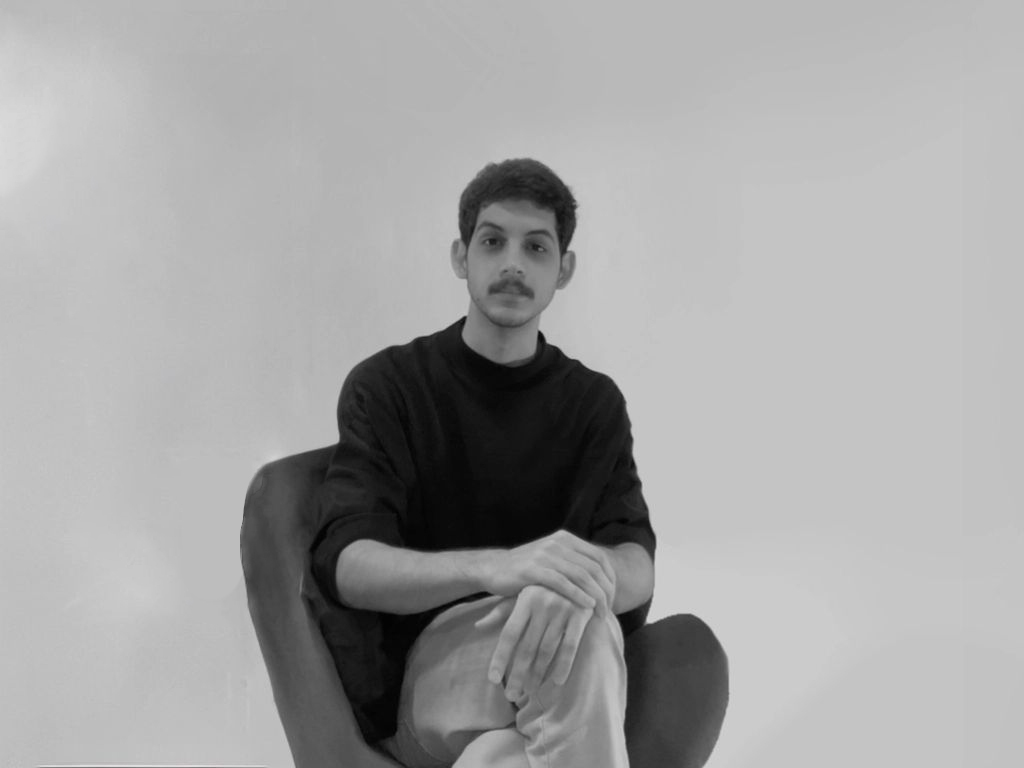
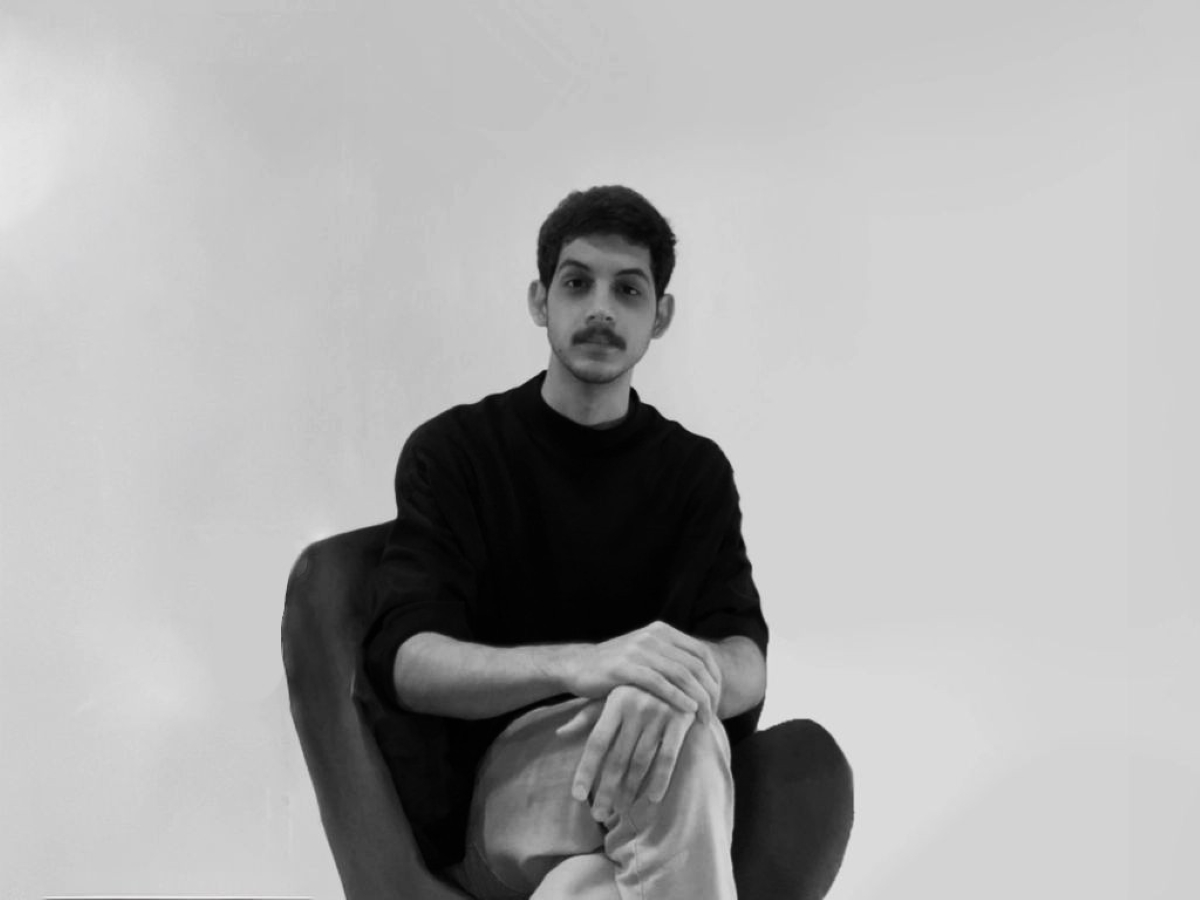
teste

diff --git a/estilos/media-query.css b/estilos/media-query.css
@@ -2,14 +2,12 @@
 
 @media screen and (min-width: 768px) {
    body, header {
-    max-width: 820px;
-    box-shadow: 10px 10px 10px 10px rgba(0, 0, 0, 0.123);
     margin: auto;
    }
     div.fotoarthur {
     background-image: url(../Foto-arthur/arthur-portrait.jpg);
     background-size: contain;
-    width: 800px
+    width: 800px;
    }
 
    section.efeito {
@@ -37,7 +35,8 @@ section.fundocadeira > article {
     max-width: 400px;
 }
 
-@media screen and (min-width: 992px) {
+@media screen and (min-width: 992px) and (max-width: 1200px) {
+
     section.efeito {
         animation-duration: 0s;
         margin-right: 50px;
@@ -50,10 +49,91 @@ section.fundocadeira > article {
 }
 
 @media screen and (min-width: 1200px) {
+    header {
+        top: 0;
+        width: 100vw;
+        position: fixed;
+    }
+
+    header.rolagem {
+        background-color: #858666;
+    }
+
+    header.rolagem nav a {
+        color: white;
+    }
+
+    header.rolagem nav a:hover {
+        background-color: black;
+    }
+
+
     section.efeito {
-        display: block;
+        margin-top: 450px;
         width: 300px;
         height: 350px;
 
+}
+
+body, html {
+    width: 100vw;
+    margin: auto;
+    background-image: url(../Foto-arthur/arthur2-landscape.jpg);
+    background-size: contain;
+    background-repeat: no-repeat;
+}
+
+div.fotoarthur {
+    background-image: url(../Foto-arthur/arthur2-landscape.jpg);
+    justify-content: space-between;
+    background-size: cover;
+    width: 100vw;
+    height: 100vh;
+
+
+}
+
+section.fundoarthur {
+    box-shadow: none;
+}
+
+div.logo {
+    display: flex;
+    background-image: url(../Logos/nome-logo-nocrp.png);
+    width: 200px;
+    height: 85px;
+    margin: 10px;
+    margin-bottom: 20px;
+    background-size: cover;
+    background-repeat: no-repeat;
+    align-items: flex-end;
+    justify-content: center;
+}
+
+section.apresentacao {
+    margin-top: 230px;
+    color: white;
+    padding: 10px;
+    background-color: #545441;;
+    margin-left: 70px;
+    width: 300px;
+    height: 370px;
+    border-radius: 15px;
+}
+
+div.logocadeira {
+    background-color: #545441;
+    background-image: url(../Logos/icone.ico);
+    background-size: cover;
+    margin: 50px;
+    margin-top: 300px;
+    width: 100px;
+    height: 100px;
+    border-radius: 50%;
+}
+
+section.fundocadeira {
+    margin-top: 350px;
+    background-attachment: fixed;
 }
 }

diff --git a/index.html b/index.html
@@ -9,9 +9,10 @@
     <title>Psicólogo Arthur de Luna</title>
 </head>
 <body>
-    <header>
-        <img src="Logos/novanome-logo-nocrp.png" alt="">
-
+    <header id="header">
+        <div class="logo">
+            <strong>CRP 24/05329</strong>
+        </div>
         <nav> 
             <a href="#">Sobre mim</a>
             <a href="#teste">Feedbacks</a>
@@ -19,11 +20,18 @@
             <a href="#">Localização</a>
         </nav>
     </header>
-    
+    <section class="tentar"></section>
     <main>
+
         <section class="fundoarthur">
             
                 <div class="fotoarthur">
+                    <section class="apresentacao">
+                        <h1>Metodologia</h1>
+                        <p>Lorem ipsum dolor sit amet consectetur adipisicing elit. Quae sit repellat consectetur itaque ratione quasi adipisci cum corporis provident fuga, ullam consequatur esse architecto, iusto perferendis atque iure blanditiis? Eum. Lorem ipsum dolor sit amet consectetur adipisicing elit. Eligendi qui ipsa adipisci nobis nihil cupiditate exercitationem pariatur! Fugit molestiae quibusdam ducimus aperiam doloremque optio, magni atque odit alias doloribus laboriosam?</p>
+                        <p>Lorem ipsum dolor sit amet consectetur, adipisicing elit. Commodi voluptatibus eligendi rem ducimus repellendus, fugiat reiciendis dolore. Dolore minus ut delectus quis sapiente tempora autem soluta dignissimos, aliquid sint rerum.</p>
+                
+                    </section>
                         <section class="efeito">
                             <h1>Sobre mim</h1>
                             <p>Lorem ipsum dolor sit amet consectetur adipisicing elit. Maxime ipsum cumque perspiciatis odio, delectus atque amet laboriosam culpa, architecto qui repellendus et, quas asperiores officia esse veritatis non hic quisquam.</p>
@@ -32,12 +40,9 @@
             
                 </div>
         </section>
-       <div class="logo2">
-           <section class="logo">
-               <article>
-               
-               </article>
-           </section>
+        <div class="logocadeira">
+
+        </div>
        </div>
         <section class="fundocadeira">
             <article> 
@@ -55,4 +60,6 @@
     </footer>
 
 </body>
+
+<script src="menu.js"></script>
 </html>

diff --git a/estilos/mobile.css b/estilos/mobile.css
@@ -28,21 +28,25 @@
 }
 
 header {
-    background-color: #14150a;
+    background-color: #14150a00;
     color: white;
-    height: 145px;
     display: flex;
-
-    flex-flow: column wrap;
+    flex-flow: row wrap;
     align-items: center;
+    justify-content: space-between;
+    top: 0%;
 }
 
-header img {
-    flex: auto;
-    margin-top: 5px;
+div.logo {
+    background-image: url(../Logos/nome-logo-nocrp.png);
+    width: 200px;
+    height: 70px;
+    background-size: cover;
+    background-repeat: no-repeat;
 }
 nav {
     display: flex;
+    margin-right: 80px;
    
 }
 
@@ -50,11 +54,12 @@ nav a {
     flex: auto;
     color: rgb(255, 255, 255);
     text-decoration: none;
-    padding: 5px;
-    border-radius: 5px;
+    padding: 8px;
+    border-radius: 8px;
     margin-inline: 5px;
     align-self: flex-end;
-    font-family: "agrandir" ,Arial, Helvetica, sans-serif
+    font-family: "agrandir" ,Arial, Helvetica, sans-serif;
+  
 
 }
 
@@ -74,6 +79,7 @@ body {
 
 main {
     align-items: center;
+    font-family: "geosans";
 
 }
 
@@ -140,13 +146,12 @@ section.fundocadeira {
     justify-content: center;
     align-items: center;
     margin-top: 150px;
-    max-width: 820px;
+    max-width: 100vw;
     height: 300px;
     box-shadow: inset 0px 10px 10px rgba(0, 0, 0, 0.497);
     background-image: url(../Fundos/fundo3.jpg);
     background-position: center bottom;
     background-size:cover;
-    background-attachment: fixed;
 }
 
 

diff --git a/menu.js b/menu.js
@@ -1,0 +1,4 @@
+window.addEventListener("scroll", function(){
+    var header = this.document.querySelector('#header')
+    header.classList.toggle('rolagem', window.scrollY > 0)
+})
